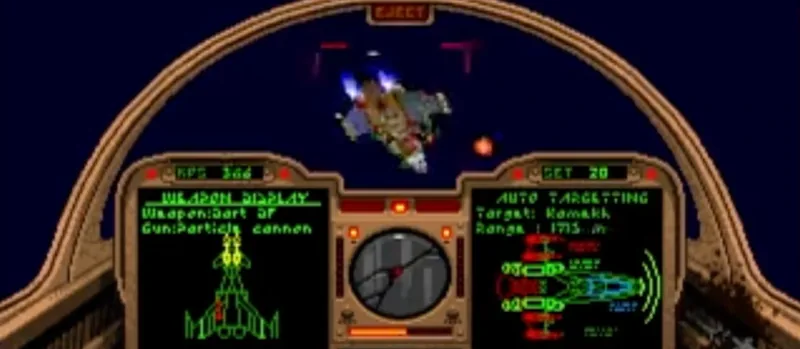
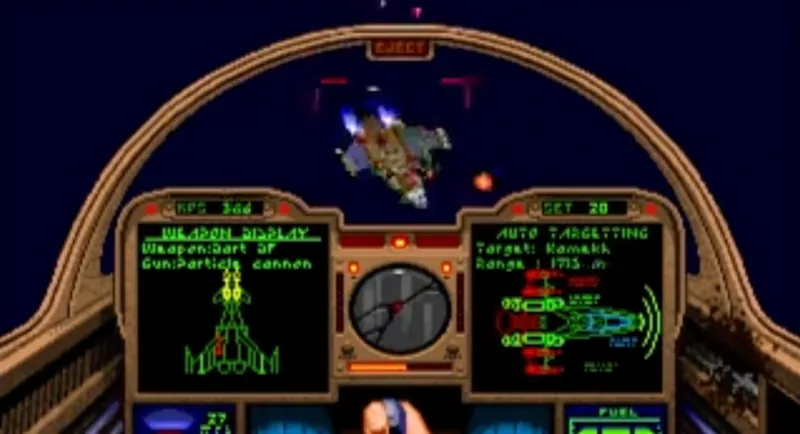
site: recrop the Wing Commander cockpits to keep the particle cannon bolt and both hands
The top cockpit keeps the other player's particle cannon bolt above the
canopy; each crop ends the same distance below its own pilot's stick, so both
show a bit of thumb and hand.

Claude-Session: https://claude.ai/code/session_01UQJwtPMkduaQQdddEybjbY

diff --git a/index.html b/index.html
@@ -140,8 +140,8 @@ footer a { color: inherit; }
       <h3><a href="dosbox/">Wing Commander Multiplayer</a></h3>
       <p class="desc">Fly Wing Commander or Wing Commander II as wingmen with a friend. Bring your own GOG copy and share a room code.</p>
       <div class="shots">
-        <img src="wcmulti/wc-coop-1.webp" width="800" height="349" alt="Wing Commander II, first player's cockpit: closing on a Kilrathi ship, 1715 m" loading="lazy">
-        <img src="wcmulti/wc-coop-2.webp" width="800" height="350" alt="Second player's cockpit, same moment: the same Kilrathi ship at 1287 m, taking hits" loading="lazy">
+        <img src="wcmulti/wc-coop-1.webp" width="800" height="434" alt="Wing Commander II, first player's cockpit: a Kilrathi ship at 1715 m, with the other player's particle cannon bolt flying past overhead" loading="lazy">
+        <img src="wcmulti/wc-coop-2.webp" width="800" height="424" alt="Second player's cockpit, same moment: the same Kilrathi ship at 1287 m, taking hits" loading="lazy">
       </div>
       <p class="go">Launch</p>
       <p class="extra"><a href="https://www.youtube.com/watch?v=uO2p6kWG9Ik">Watch the video</a> · <a href="wcmulti/">Read the story</a></p>
